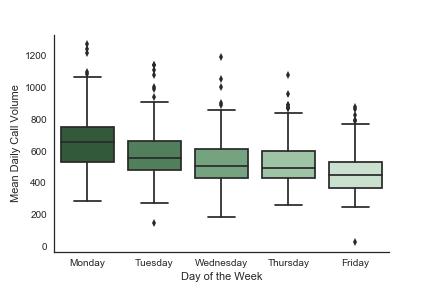
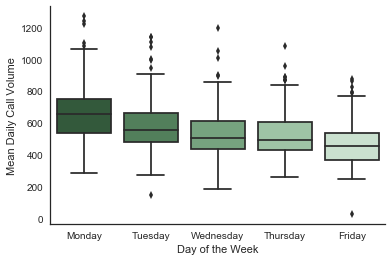
cleaned up plots and stuff, paper doesnt reflect new plots yet

diff --git a/paper.tex b/paper.tex
@@ -32,7 +32,7 @@ directly to the data source.  Upon completetion, this analysis identified insigh
 \end{abstract}
 
 \section{Introduction}
-The city of South Bend, located in northern Indiana, established a citizen-accessible call center in February 2013.  They address almost every aspect of city-citizen interaction, including waste pick-up and removal, water billing and disconnections, 
+The city of South Bend, located in northern Indiana, established a citizen-accessible call center in February 2013.  It addresses almost every aspect of city-citizen interaction, including waste pick-up and removal, water billing and disconnections, 
 and code enforcement.  By serving as a central hub for communication, the call center is able to consolidate a substantial amount of data regarding citizens as consumers.  This data is available on South Bend's open data portal at \href{https://data-southbend.opendata.arcgis.com}{https://data-southbend.opendata.arcgis.com}.
 
 	\subsection{Prior Work}
@@ -41,7 +41,7 @@ The purpose of this research is to uncover trends and insights that may be of us
 \par
 Call center and queueing analysis has been the focus of academic research for years.  Brown et al. provide an excellent overview of the Poisson distribution modeling customer arrivals, as well as the accompanying assumptions.  While arrival distribution is not analyzed in this paper, the authors' assumptions are, for the most part, assumed to be true in this analysis.  These center around the general assumption that the customers and operators are statistically identical and that they all act independently.\cite{brown}  Zhang, Hong, and Zhang also descibe the arrival process as a Poisson distribution, but discuss models which may be more accurate alternatives.\cite{zhang}  They maintain some of the main assumptions as Brown.  As a result, differences in time-dependent parameters, customer attitudes and preferences, and operator skill levels are treated as neglegible.
 \par
-Prior work with call centers often centers around simulation.  According to Bapat and Pruitte, simulation is the preferred method to analyze and determine the effectiveness of a call center.\cite{bapat}  It allows for evaluation of metrics beyond what a basic analysis encompasses.  For example, the scheduling of call agents should be optimized against call duration and abandonment, as documented by Saltzman and Mehrota.\cite{saltzman}  This could be viewed as a logical next step for this project, with this work discovering the baseline knowedge necessary to construct such a model.
+Call centers are a prime opportunity to utilize simulation techniques.  In fact, according to Bapat and Pruitte, simulation is the preferred method to analyze and determine the effectiveness of a call center.\cite{bapat}  It allows for evaluation of metrics beyond what a basic analysis encompasses.  For example, the scheduling of call agents should be optimized against call duration and abandonment, as documented by Saltzman and Mehrota.\cite{saltzman}  This could be viewed as a logical next step for this project, with this work discovering the baseline knowedge necessary to construct such a model.
 
 
 
@@ -76,9 +76,7 @@ The data was then inspected for missing data and reasonableness.  The daily data
 
 \section{Analysis}
 
-\textbf{Call volume by month --} was analyzed using the daily data.  Months with the highest average daily call volumes were July, April, June, and May (in that order).  The results can be viewed in Figure 1.  The standard errors for each month (also plotted in Figure 1) appear to be small enough the significance of these differences.  March, interestingly, has the lowest average volume by a large margin.  This is especially intriguing since it is immediately prior to what can be seen as the ``busy season".
-
-The heatmap in Figure 2 shows the resulting p-value between each pairing of months.  An interesting point that appears is that June's call volumes are not statistically different from those in April.  March, however, has a statistically lower daily average than every other month.
+\textbf{Call volume by month --} was analyzed using the daily data.  Months with the highest average daily call volumes were July, April, June, and May (in that order).  The results can be viewed in Figure 1.  The standard errors for each month (also plotted in Figure 1) appear to be small enough the significance of these differences.  March, interestingly, has the lowest average volume by a large margin.  This is especially intriguing since it is immediately prior to what can be seen as the ``busy season".  The heatmap in Figure 2 shows the resulting p-value from the t-test between each pair of months' distributions.  An interesting point that appears is that June's call volumes are not statistically different from those in April.  March, however, has a statistically lower daily average than every other month.
 \par
 
 \textbf{Call volume by day of the week --} incorporated over 588,000 calls into the results.  In order to most clearly see the results, a series of boxplots are shown in Figure 2.  Upon evaluation, call volume trends highest on Monday, then steadily decreases as the work week continues on.  The 311 service allows for voicemails to be left after hours, allowing operators to call customers back during business hours.  This could be a reason for the higher number of calls on Monday and Tuesday, since a weekend's worth of calls are presumably being dealt with.
